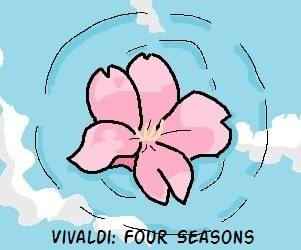
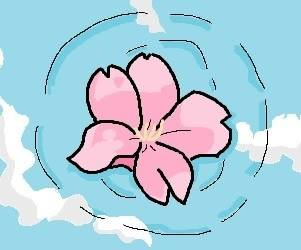
hover effects

Changed region(s): [[0.1495, 0.896, 0.8671, 0.98]]

diff --git a/index.html b/index.html
@@ -30,8 +30,8 @@
                 <div id=home class="tab-pane fade in active">
                     <div class=container>
                         <div class=img-thumbnail>
-                            <img src=image1.jpg alt="Panel 1" class=img-rounded style=max-width:100%;height:auto>
-                            <img src=image2.jpg alt=Panel 2 class=img-rounded style=max-width:100%;height:auto>
+                            <img src=image1.jpg onmouseover="this.src='image1caption.jpg'" onmouseout="this.src='image1.jpg'" class=img-rounded style=max-width:100%;height:auto>
+                            <img src=image2.jpg onmouseover="this.src='image2caption.jpg'" onmouseout="this.src='image2.jpg'" class=img-rounded style=max-width:100%;height:auto>
                         </div>
                     </div>
                 </div>
